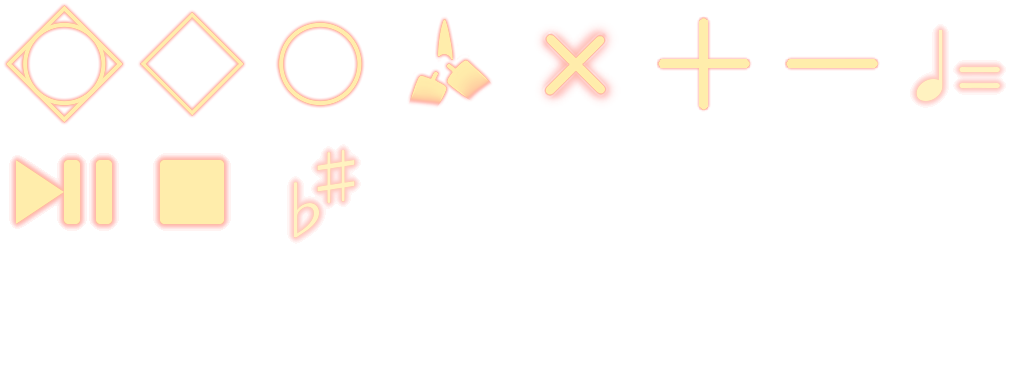
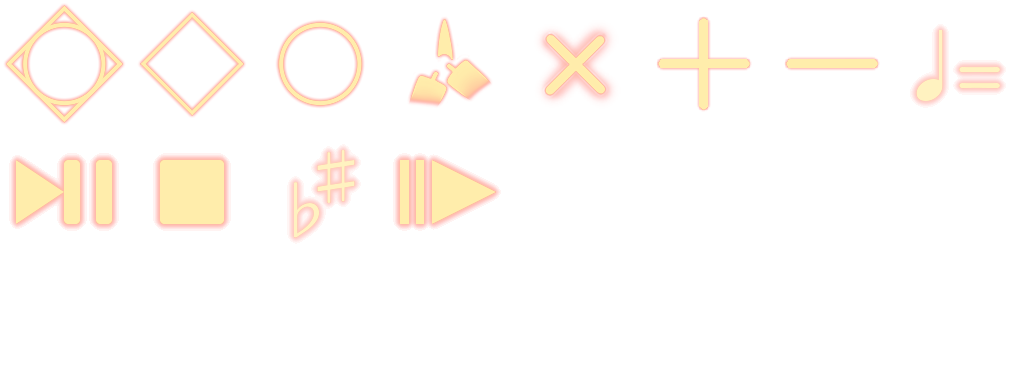
-

Changed region(s): [[0.375, 0.4062, 0.5, 0.5938]]

diff --git a/seq.html b/seq.html
@@ -30,16 +30,20 @@
 		</div>
 		<div style="opacity:.5;pointer-events:none;width:8px;">CBAGFEDCBAGFEDC</div>
 	</div>
-	<div>
-		<button onclick="Tone.start();ptoggle()" class="grid bg" style="--bp:0px -64px;"></button><button onclick="pstop()"class="grid bg" style="--bp:-64px -64px;"></button><br>
-
-		<button onclick="main.bpm-=6;Tone.Transport.bpm.value-=6;bpm_.value=main.bpm;" class="grid bg" style="--bp:-384px 0px;">
-		</button><input id="bpm_" class="grid bg" onchange="bpmset();" style="--bp:-448px 0px;">
-		</input><button onclick="main.bpm+=6;Tone.Transport.bpm.value+=6;bpm_.value=main.bpm;" class="grid bg" style="--bp:-320px 0px;"></button><br>
-
-		<button onclick="main.sc--;sc_.value=main.sc;" class="grid bg" style="--bp:-384px 0px;">
-		</button><input id="sc_" class="grid bg" onchange="scset();" style="--bp:-128px -64px;">
-		</input><button onclick="main.sc++;sc_.value=main.sc;" class="grid bg" style="--bp:-320px 0px;"></button><br>
+	<div class="uipanel">
+		<div>
+			<button class="grid bg" style="--bp:-192px -64px;transform:rotateZ(180deg);">
+			</button><button onclick="Tone.start();ptoggle()" class="grid bg" style="--bp:0px -64px;"></button><button onclick="pstop()"class="grid bg" style="--bp:-64px -64px;">
+			</button><button class="grid bg" style="--bp:-192px -64px;"></button>
+		</div>
+		<div>
+			<button onclick="main.bpm-=6;Tone.Transport.bpm.value-=6;bpm_.value=main.bpm;" class="grid bg" style="--bp:-384px 0px;">
+			</button><input id="bpm_" class="grid bg" onchange="bpmset();" style="--bp:-448px 0px;"></input><button onclick="main.bpm+=6;Tone.Transport.bpm.value+=6;bpm_.value=main.bpm;" class="grid bg" style="--bp:-320px 0px;"></button>
+		</div>
+		<div>
+			<button onclick="main.sc--;sc_.value=main.sc;" class="grid bg" style="--bp:-384px 0px;">
+			</button><input id="sc_" class="grid bg" onchange="scset();" style="--bp:-128px -64px;"></input><button onclick="main.sc++;sc_.value=main.sc;" class="grid bg" style="--bp:-320px 0px;"></button>
+		</div>
 	</div>
 
 	<pre id="log"></pre>
